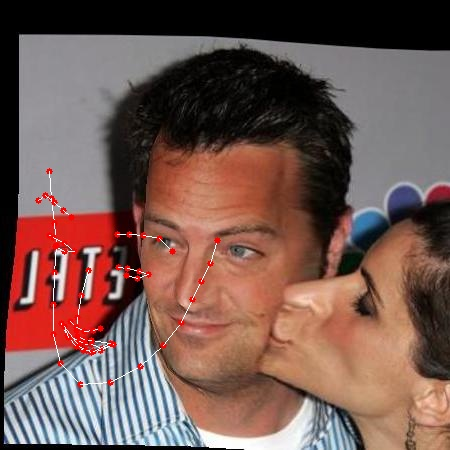
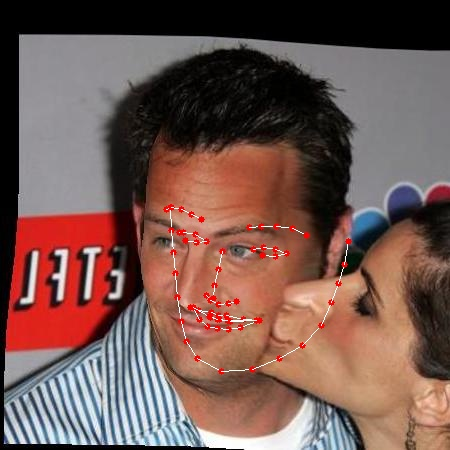
Synergy can learn

diff --git a/data_generator/data_generator.py b/data_generator/data_generator.py
@@ -2,6 +2,7 @@ from tensorflow.keras.utils import Sequence
 import numpy as np
 from data_generator.image_preprocessing import image_loader
 from data_generator.labels_preprocessing import label_loader
+from model.morhaple_face_model import PCA
 
 class DataGenerator(Sequence):
     def __init__(self, list_IDs, labels, batch_size=32, input_shape=(128, 128, 3),
@@ -12,6 +13,7 @@ class DataGenerator(Sequence):
         self.input_shape = input_shape
         self.shuffle = shuffle
         self.dataset_path = dataset_path
+        self.pca = PCA(input_shape)
         self.indices = np.arange(len(self.list_IDs))
         
     def __len__(self):
@@ -56,8 +58,8 @@ class DataGenerator(Sequence):
             batch_parameters_3DMM.append(parameters_3DDM)
         X = np.array(X)
         batch_parameters_3DMM = np.array(batch_parameters_3DMM)
-        batch_parameters_3DMM_hat = batch_parameters_3DMM.copy()
-        return X, (batch_parameters_3DMM, batch_parameters_3DMM_hat)
+        Lc = self.pca(batch_parameters_3DMM)
+        return X, (batch_parameters_3DMM, batch_parameters_3DMM)
 
     def get_one_instance(self, id):
         batch = [id]

diff --git a/sanity_check.py b/sanity_check.py
@@ -1,5 +1,5 @@
 import tensorflow as tf
-from losses import ParameterLoss
+from losses import ParameterLoss, WingLoss
 from model.synergy import Synergy
 from utils.data_utils.plotting_data import plot_landmarks, plot_pose
 
@@ -28,17 +28,19 @@ list_ids = ["300W-LP/300W_LP/AFW/AFW_134212_1_2", "300W-LP/300W_LP/HELEN_Flip/HE
 images, y = training_data_generator.data_generation(list_ids)
 
 model = Synergy(input_shape=input_shape)
-optimizer = Nadam(learning_rate=0.001)
-loss_function = ParameterLoss(name='loss_Param_In', mode='normal')
-
+optimizer = Nadam(learning_rate=0.0001)
 
 losses = {
   'output_1': ParameterLoss(name='loss_Param_In', mode='normal'),
+  'output_2': ParameterLoss(name='loss_Param_S2', mode='3dmm'),
+  # 'output_3': WingLoss(name='loss_LMK_f0'),
+  # 'output_4': WingLoss(name='loss_LMK_pointNet')
   }
 
-model.compile(optimizer, loss_function)
+loss_weights = {'output_1':0.02, 'output_2':0.02}
+model.compile(optimizer, losses, loss_weights=loss_weights)
 print(model.summary())
-model.fit(images, y, verbose=1, epochs=300)
+model.fit(images, y, verbose=1, epochs=1000)
 
 DMM = model.predict(images)[0]
 

diff --git a/data_generator/image_preprocessing.py b/data_generator/image_preprocessing.py
@@ -4,6 +4,7 @@ import cv2
 def image_loader(image_id, dataset_path, input_shape):
     image_path = dataset_path + image_id + '.jpg'
     image = parse_image(image_path)
+    image = grey_scale(image)
     image, aspect_ratio = resize_image(image, input_shape)
     image_normalized = normalization(image)
     return image_normalized, aspect_ratio
@@ -26,3 +27,10 @@ def resize_image(image, input_shape=(224, 224)):
     aspect_1 = resized_shape[1]/float(original_shape[1])
     aspect_ratio = (aspect_0, aspect_1)
     return image, aspect_ratio
+
+def grey_scale(image):
+    image_gray = image.copy()
+    p = np.random.rand()
+    if p < 0.2:
+        image = cv2.cvtColor(image, cv2.COLOR_BGR2GRAY)
+    return image_gray

diff --git a/model/synergy.py b/model/synergy.py
@@ -44,7 +44,8 @@ class Synergy(Model):
 
             Param_3D = tf.concat((pose_3DMM, alpha_exp, alpha_shp), axis=-1)
             Lc = self.morphable_model(Param_3D)
-            Lr = self.encoder(Lc, Z, Param_3D[:, 12:22], Param_3D[:, 22:])
+            point_residual = self.encoder(Lc, Z, Param_3D[:, 12:22], Param_3D[:, 22:])
+            Lr = tf.add(point_residual, Lc, name='point_residual')
             Param_3D_hat = self.decoder(Lr)
             Lg = self.paramLoss(Param_3D, Param_3D_hat)
             self.add_loss(0.001 * Lg)
